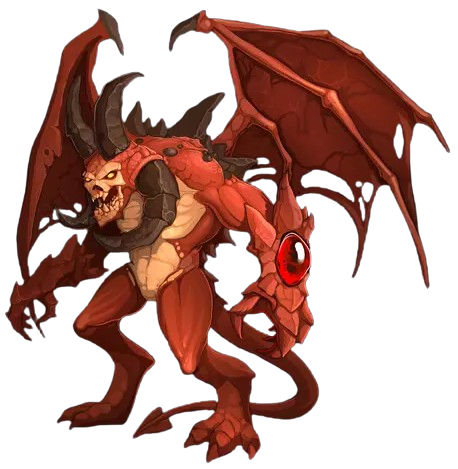
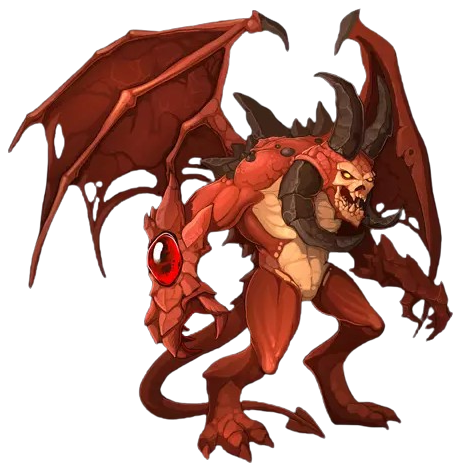
Préparation de l'intégration des personnages sur la page de sélection des personnages

diff --git a/client/src/components/CharacterSelection.svelte b/client/src/components/CharacterSelection.svelte
@@ -1,5 +1,14 @@
 <script>
-</script><main class="character-selection">
+    let charImg;
+    let charHalfW;
+    let charHalfH;
+
+    let enemyImg;
+    let enemyHalfW;
+    let enemyHalfH;
+</script>
+
+<main class="character-selection">
     <header class="page-header">
         <h1>SÉLECTIONNEZ UN PERSONNAGE</h1>
         <p>
@@ -18,7 +27,7 @@
 
                 <div class="character-card">
                     <div class="character-image" aria-hidden="true">
-                        <img style="width: 10rem; height: 15rem;" src="./src/assets/art/characters/humans/classes/death_knight/death_knight1.png" alt="">
+                        <img bind:this={charImg} on:load={() => { charHalfW = charImg.naturalWidth / 2; charHalfH = charImg.naturalHeight / 2; }} style={`width: ${charHalfW ? `${charHalfW}px` : 'auto'}; ${charHalfH ? `${charHalfH}px` : 'auto'}`} src="./src/assets/art/characters/humans/classes/death_knight/death_knight1.png" alt="">
                     </div>
 
                     <div class="character-infos-area">
@@ -28,6 +37,7 @@
                             name="player-name"
                             id="player-name"
                             placeholder="Entrez le nom de votre personnage..."
+                            required
                         />
 
                         <h2>Class Name</h2>
@@ -55,7 +65,7 @@
 
                 <div class="character-card">
                     <div class="character-image" aria-hidden="true">
-                        <img style="width: 15rem; height: 15rem;" src="./src/assets/art/characters/monsters/boss/baron.png" alt="">
+                        <img bind:this={enemyImg} on:load={() => { enemyHalfW = enemyImg.naturalWidth / 2; enemyHalfH = enemyImg.naturalHeight / 2; }} style={`transform: scaleX(-1); width: ${enemyHalfW ? `${enemyHalfW}px` : 'auto'}; ${enemyHalfH ? `${enemyHalfH}px` : 'auto'}`} src="./src/assets/art/characters/monsters/boss/baron.png" alt="">
                     </div>
 
                     <div class="character-infos-area">

diff --git a/server/src/scripts/Character.js b/server/src/scripts/Character.js
@@ -1,7 +1,10 @@
 class Characters {
     constructor(data) {
         this.name = data.name;
+        this.className = data.className;
+        this.typeName = data.typeName; // Résistances à l'avenir ?
         this.image = data.image;
+        this.avatar = data.avatar;
         this.statistics = data.statistics || {};
         this.selfAttributes = data.selfAttributes || {};
         this.passives = data.passives || [];

diff --git a/server/src/scripts/characters/DeathKnight.js b/server/src/scripts/characters/DeathKnight.js
@@ -19,7 +19,10 @@ class DeathKnight extends Characters {
     constructor(name) {
         const charData = {
             name: name,
+            className: "DeathKnight",
+            typeName: "Human",
             image: "./src/assets/art/characters/humans/classes/death_knight/death_knight1.png",
+            avatar: "",
             statistics: {
                 HP: 800,
                 maxHP: 800,

diff --git a/server/src/scripts/characters/Baron.js b/server/src/scripts/characters/Baron.js
@@ -19,7 +19,10 @@ class Baron extends Characters {
     constructor(name) {
         const charData = {
             name: name,
+            className: "Baron",
+            typeName: "Monster",
             image: "./src/assets/art/characters/monsters/boss/baron.png",
+            avatar: "",
             statistics: {
                 HP: 4500,
                 maxHP: 4500,
